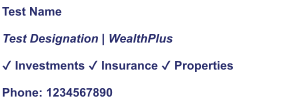
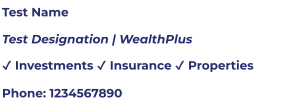
changes

diff --git a/server/utils/image.js b/server/utils/image.js
@@ -3,22 +3,34 @@ const fs = require('fs');
 const path = require('path');
 
 /* -------------------------------
-   ✅ FIXED: SAFE FONT LOADING
--------------------------------- */
-const fontPath = path.join(__dirname, '../fonts/NotoSans-Regular.ttf');
+    ✅ FIXED: SAFE FONT LOADING
+ -------------------------------- */
+const fontPath = path.join(__dirname, '../assets/fonts/NotoSans-Regular.ttf');
+const italicFontPath = path.join(__dirname, '../Noto_Sans/static/NotoSans-Italic.ttf');
 
-// Warn clearly if font is missing (production issue)
+// Warn clearly if fonts are missing (production issue)
 if (!fs.existsSync(fontPath)) {
-  console.error('❌ FONT FILE NOT FOUND:', fontPath);
-  console.error('➡ Make sure fonts/NotoSans-Regular.ttf exists in backend.');
-}
+   console.error('❌ FONT FILE NOT FOUND:', fontPath);
+   console.error('➡ Make sure assets/fonts/NotoSans-Regular.ttf exists in backend.');
+ }
+if (!fs.existsSync(italicFontPath)) {
+   console.error('❌ ITALIC FONT FILE NOT FOUND:', italicFontPath);
+   console.error('➡ Make sure Noto_Sans/static/NotoSans-Italic.ttf exists in backend.');
+ }
 
 let fontBase64 = '';
+let italicFontBase64 = '';
 try {
-  fontBase64 = fs.readFileSync(fontPath).toString('base64');
-  console.log('✅ Font loaded successfully.');
+   fontBase64 = fs.readFileSync(fontPath).toString('base64');
+   console.log('✅ Regular font loaded successfully.');
 } catch (e) {
-  console.error('❌ ERROR reading font file:', e.message);
+   console.error('❌ ERROR reading regular font file:', e.message);
+}
+try {
+   italicFontBase64 = fs.readFileSync(italicFontPath).toString('base64');
+   console.log('✅ Italic font loaded successfully.');
+} catch (e) {
+   console.error('❌ ERROR reading italic font file:', e.message);
 }
 
 
@@ -97,6 +109,12 @@ function generateFooterSVG(name, designation, phone, textWidth, footerHeight, fo
             src: url('data:font/ttf;base64,${fontBase64}') format('truetype');
             font-weight: normal;
             font-style: normal;
+          }
+          @font-face {
+            font-family: 'Noto Sans';
+            src: url('data:font/ttf;base64,${italicFontBase64}') format('truetype');
+            font-weight: normal;
+            font-style: italic;
           }
           .footertext {
             font-family: 'Noto Sans', sans-serif;

diff --git a/server/utils/test_createFinalPoster.js b/server/utils/test_createFinalPoster.js
@@ -1,0 +1,32 @@
+const { createFinalPoster } = require('./image');
+const path = require('path');
+
+async function testCreateFinalPoster() {
+  console.log('Testing createFinalPoster...');
+
+  const templatePath = path.join(__dirname, '../output/test_direct.jpeg');
+  const outputPath = path.join(__dirname, '../output/test_final.jpeg');
+  const logoPath = path.join(__dirname, '../assets/logo.png');
+
+  const person = {
+    name: 'Test User',
+    designation: 'Test Designation',
+    phone: '1234567890',
+    photo: path.join(__dirname, '../assets/logo.png'), // use logo as photo for test
+    teamName: ''
+  };
+
+  try {
+    await createFinalPoster({
+      templatePath,
+      person,
+      logoPath,
+      outputPath
+    });
+    console.log('✅ createFinalPoster test successful, output saved to:', outputPath);
+  } catch (error) {
+    console.error('❌ createFinalPoster test failed:', error.message);
+  }
+}
+
+testCreateFinalPoster();
